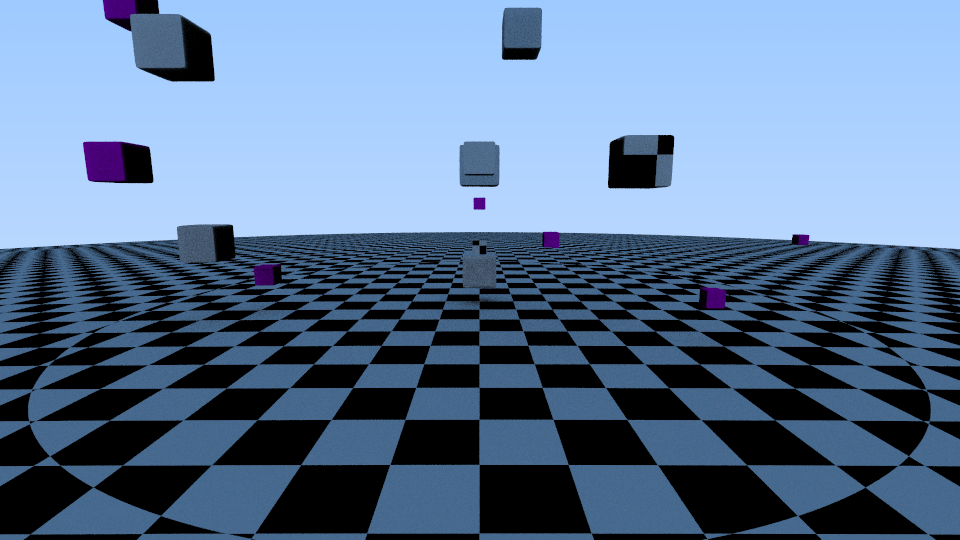
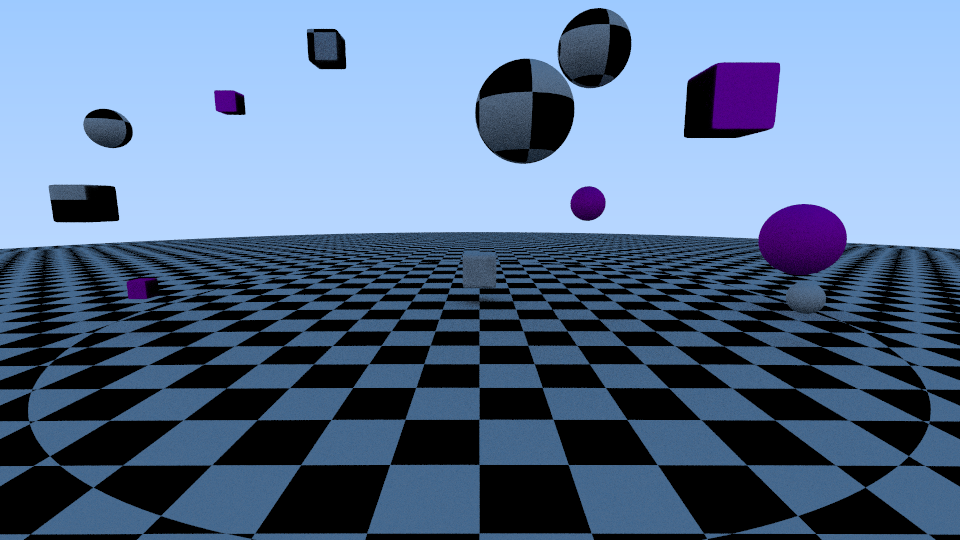
random object id in test

diff --git a/src/main.rs b/src/main.rs
@@ -455,7 +455,7 @@ fn main() {
         let z = rand::float_range(1., 5.).floor();
         let s = rand::float_range(0.25, 1.25);
         instances.push(
-            Instance::new(1, i)
+            Instance::new(rand::int_range(0, 2), i)
                 .with_position(x, y, z)
                 .with_scale(s, s, s),
         );
